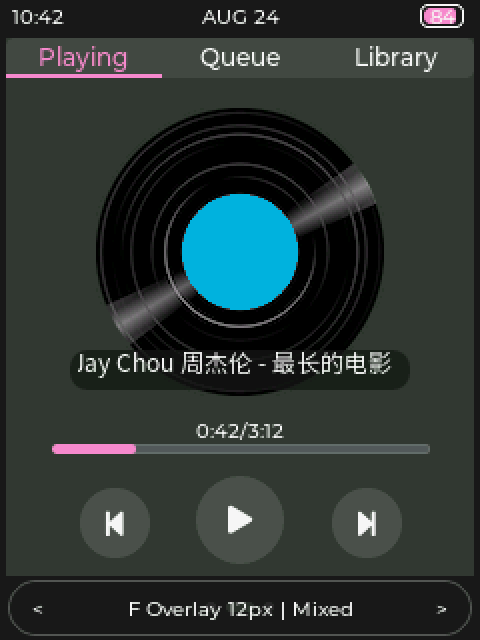
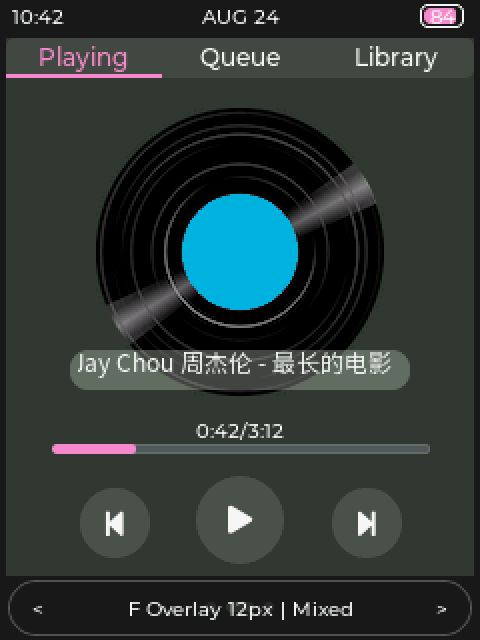
fix(gui): 对齐曲名悬浮底板主题角色
Refs #103

Changed region(s): [[0.125, 0.5312, 0.875, 0.625]]

diff --git a/Tools/gui_simulator/prototype/track_title/track_title_prototype.c b/Tools/gui_simulator/prototype/track_title/track_title_prototype.c
@@ -279,6 +279,7 @@ static void track_title_prototype_apply(void)
     lv_obj_t *vinyl = view->music.vinyl_image;
     lv_coord_t title_width;
     lv_coord_t title_height;
+    lv_coord_t title_padding = 0;
     lv_coord_t text_width;
 
     text_width = track_title_measure(state->title, font);
@@ -313,14 +314,15 @@ static void track_title_prototype_apply(void)
         title_height = font->line_height + 6;
         lv_obj_set_pos(title, (lv_obj_get_width(lv_obj_get_parent(vinyl)) - title_width) / 2, 136);
         lv_obj_set_pos(vinyl, 0, 15); /* 原盘尺寸与位置均不变，曲名悬浮于下沿。 */
-        lv_obj_set_style_bg_opa(title, 185, LV_PART_MAIN | LV_STATE_DEFAULT);
+        lv_obj_set_style_bg_opa(title, 80, LV_PART_MAIN | LV_STATE_DEFAULT);
         lv_obj_set_style_radius(title, 9, LV_PART_MAIN | LV_STATE_DEFAULT);
-        lv_obj_set_style_pad_hor(title, 4, LV_PART_MAIN | LV_STATE_DEFAULT);
+        title_padding = 4;
+        lv_obj_set_style_pad_hor(title, title_padding, LV_PART_MAIN | LV_STATE_DEFAULT);
         break;
     }
 
     lv_label_set_long_mode(title,
-                           (text_width > (title_width - ((track_title_prototype.variant == 2U) ? 8 : 0))) ?
+                           (text_width > (title_width - (title_padding * 2))) ?
                                LV_LABEL_LONG_SCROLL_CIRCULAR : LV_LABEL_LONG_CLIP);
     lv_obj_set_size(title, title_width, title_height);
     lv_label_set_text(title, state->title);
@@ -348,7 +350,7 @@ void track_title_prototype_init(void)
                                 LV_PART_MAIN | LV_STATE_DEFAULT);
     service_gui_theme_style_add(track_title_prototype.title,
                                 SERVICE_GUI_THEME_BG,
-                                SERVICE_GUI_THEME_GROUND,
+                                SERVICE_GUI_THEME_WASH,
                                 LV_PART_MAIN | LV_STATE_DEFAULT);
     lv_obj_add_flag(track_title_prototype.title, LV_OBJ_FLAG_HIDDEN);
     track_title_prototype.state = 0U;

diff --git a/Tools/gui_simulator/prototype/track_title/generate_fonts.py b/Tools/gui_simulator/prototype/track_title/generate_fonts.py
@@ -12,7 +12,7 @@ SYMBOLS = "晴天不能说的秘密蒲公英的约定回到过去周杰伦最长
 
 
 def main() -> None:
-    """按命令行给定的 OTF 路径生成三种字号的 LVGL C 数组。"""
+    """按命令行给定的 OTF 路径生成 SIZES 中各字号的 LVGL C 数组。"""
     parser = argparse.ArgumentParser(description=__doc__)
     parser.add_argument("font", type=Path, help="NotoSansCJKsc-Regular.otf 路径")
     args = parser.parse_args()
